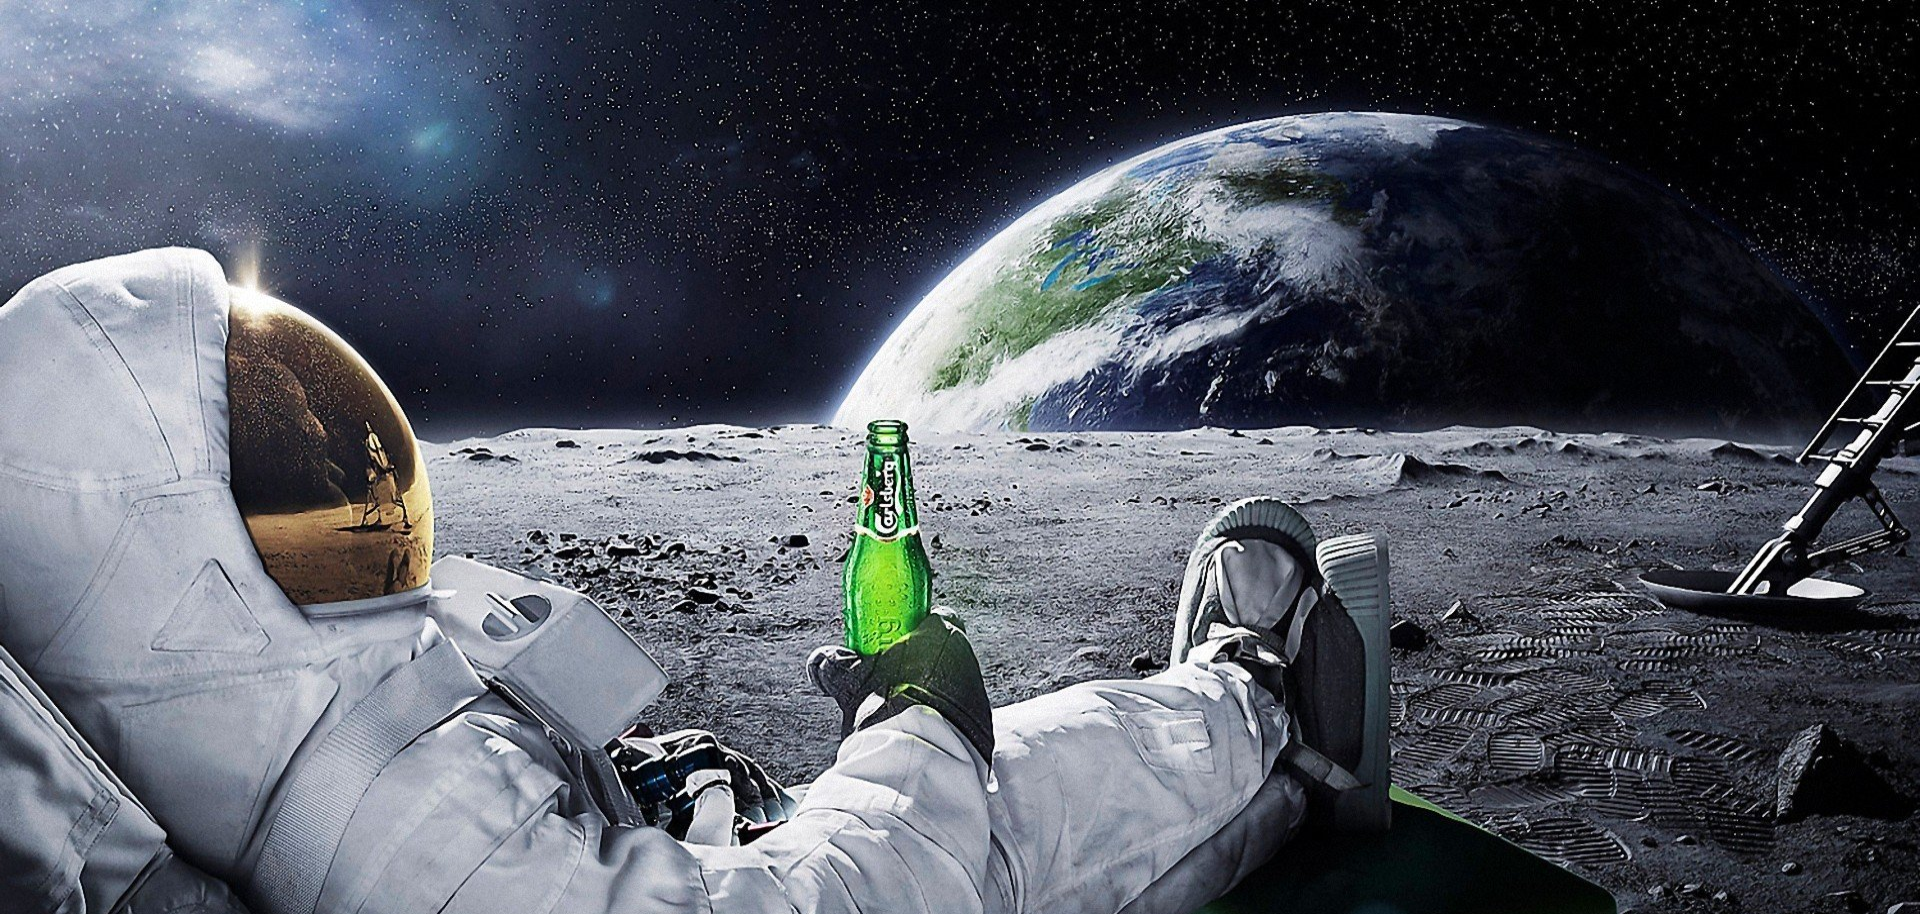
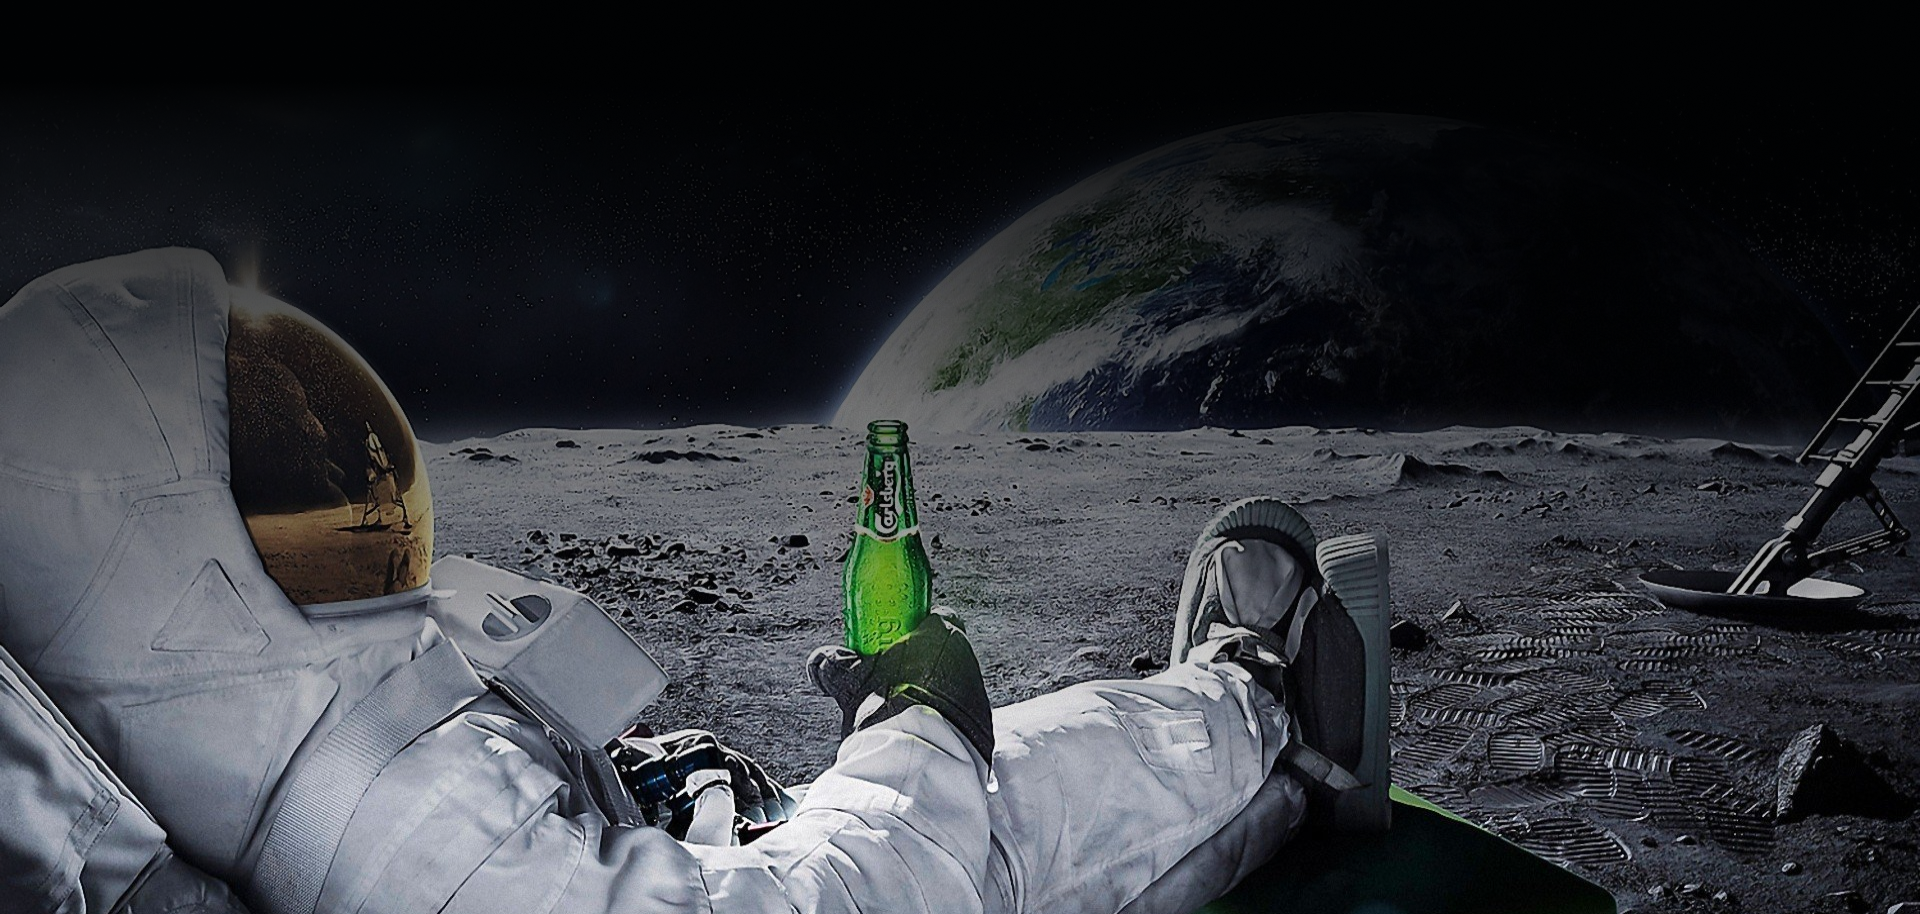
completed 2 parts of the page

diff --git a/index.html b/index.html
@@ -188,6 +188,76 @@
         </div>
       </div>
     </section>
+    <section class="how-to">
+      <div class="container">
+        <h2 class="title">
+          Как все<br>происходит
+        </h2>
+        <div class="how-to__box">
+          <svg width="850" height="545" viewBox="0 0 850 600" fill="none" xmlns="http://www.w3.org/2000/svg">
+            <line x1="20.2474" y1="19.56552" x2="161.247" y2="95.5655" stroke="white" />
+            <line x1="161.43" y1="95.7448" x2="215.43" y2="186.745" stroke="white" />
+            <line x1="215.439" y1="186.76" x2="286.439" y2="316.76" stroke="white" />
+            <line x1="286.444" y1="317.229" x2="236.444" y2="414.229" stroke="white" />
+            <line x1="286.207" y1="316.545" x2="545.207" y2="434.545" stroke="white" />
+            <line x1="236.29" y1="413.593" x2="406.29" y2="534.593" stroke="white" />
+            <line x1="405.708" y1="534.594" x2="544.708" y2="434.594" stroke="white" />
+            <g>
+              <circle cx="20" cy="20" r="10" fill="white" />
+              <text x="45" y="29" fill="white">Выбираете программу</text>
+            </g>
+            <g>
+              <circle cx="161" cy="96" r="10" fill="white" />
+              <text x="186" y="105" fill="white">Оплачиваете</text>
+            </g>
+            <g>
+              <circle cx="215" cy="187" r="10" fill="white" />
+              <text x="240" y="196" fill="white">Какая-то будет подготовка</text>
+            </g>
+            <g>
+              <circle cx="286" cy="317" r="10" fill="white" />
+              <text x="311" y="326" fill="white">Садимся. Летим. Невесомость</text>
+            </g>
+            <g>
+              <circle cx="236" cy="414" r="10" fill="white" />
+              <foreignObject x="96" y="404" width="120" height="80">
+                <p>Делаем фото в инстаграм</p>
+              </foreignObject>
+            </g>
+            <g>
+              <circle cx="406" cy="535" r="10" fill="white" />
+              <foreignObject x="406" y="555" width="154" height="42">
+                <p>Приземляемся, но это не точно</p>
+              </foreignObject>
+            </g>
+            <g>
+              <circle cx="545" cy="435" r="10" fill="white" />
+              <foreignObject x="565" y="425" width="273" height="84">
+                <p>Едим из тюбиков: 5 видов меню на выбор (веган, спорт, безлактозное, безглютеновое, обычное)</p>
+              </foreignObject>
+            </g>
+          </svg>
+        </div>
+      </div>
+    </section>
+    <section class="to-book">
+      <div class="container">
+        <div class="to-book__inner">
+          <h2 class="title">
+            Успей <br> забронировать!
+          </h2>
+          <p class="to-book__text">
+            Руководство Virgin Galactic надеется, что массовые суборбитальные космические полеты
+            начнутся до 2022 года. Компания уже
+            несколько лет продает билеты на такие полеты по 250 тыс долл.
+          </p>
+          <p class="to-book__text">
+            Virgin Galactic получила задатков более чем 80 млн долл, а количество желающих
+            превышает 600 человек.
+          </p>
+        </div>
+      </div>
+    </section>
   </main>
 
 

diff --git a/css/style.css b/css/style.css
@@ -282,3 +282,71 @@ body {
   font-size: 12px;
   line-height: 14px;
 }
+
+.how-to {
+  background-image: url(../images/howto-bg.jpg);
+  background-repeat: no-repeat;
+  background-position: top center;
+  background-size: cover;
+  padding-bottom: 100px;
+}
+
+.how-to__box {
+  text-align: center;
+}
+
+.how-to__box circle,
+.how-to__box text,
+.how-to__box foreignObject {
+  transition: all .5s;
+  cursor: pointer;
+  font-size: 18px;
+}
+
+.how-to__box g:hover circle {
+  r: 20px;
+  fill: #036CCA;
+}
+
+.how-to__box g:hover text {
+  fill: #036CCA;
+  font-size: 36px;
+}
+
+.how-to__box g:hover foreignObject {
+  color: #036CCA;
+  font-size: 22px;
+}
+
+foreignObject {
+  text-align: left;
+}
+
+.to-book {
+  background-image: url(../images/guy-on-the-moon.png);
+  background-size: cover;
+  background-repeat: no-repeat;
+  background-position: top center;
+  min-height: 100vh;
+}
+
+.to-book__inner {
+  display: flex;
+  justify-content: space-between;
+  /* align-items: baseline; */
+}
+
+.to-book__text {
+  width: 165px;
+  font-size: 14px;
+  line-height: 17px;
+  margin-top: 100px;
+  margin-right: 52px;
+  margin-left: auto;
+  /* margin: 100px 52px 0 auto; */
+}
+
+.to-book__text + .to-book__text {
+  margin-left: 0;
+  margin-right: 0;
+}
